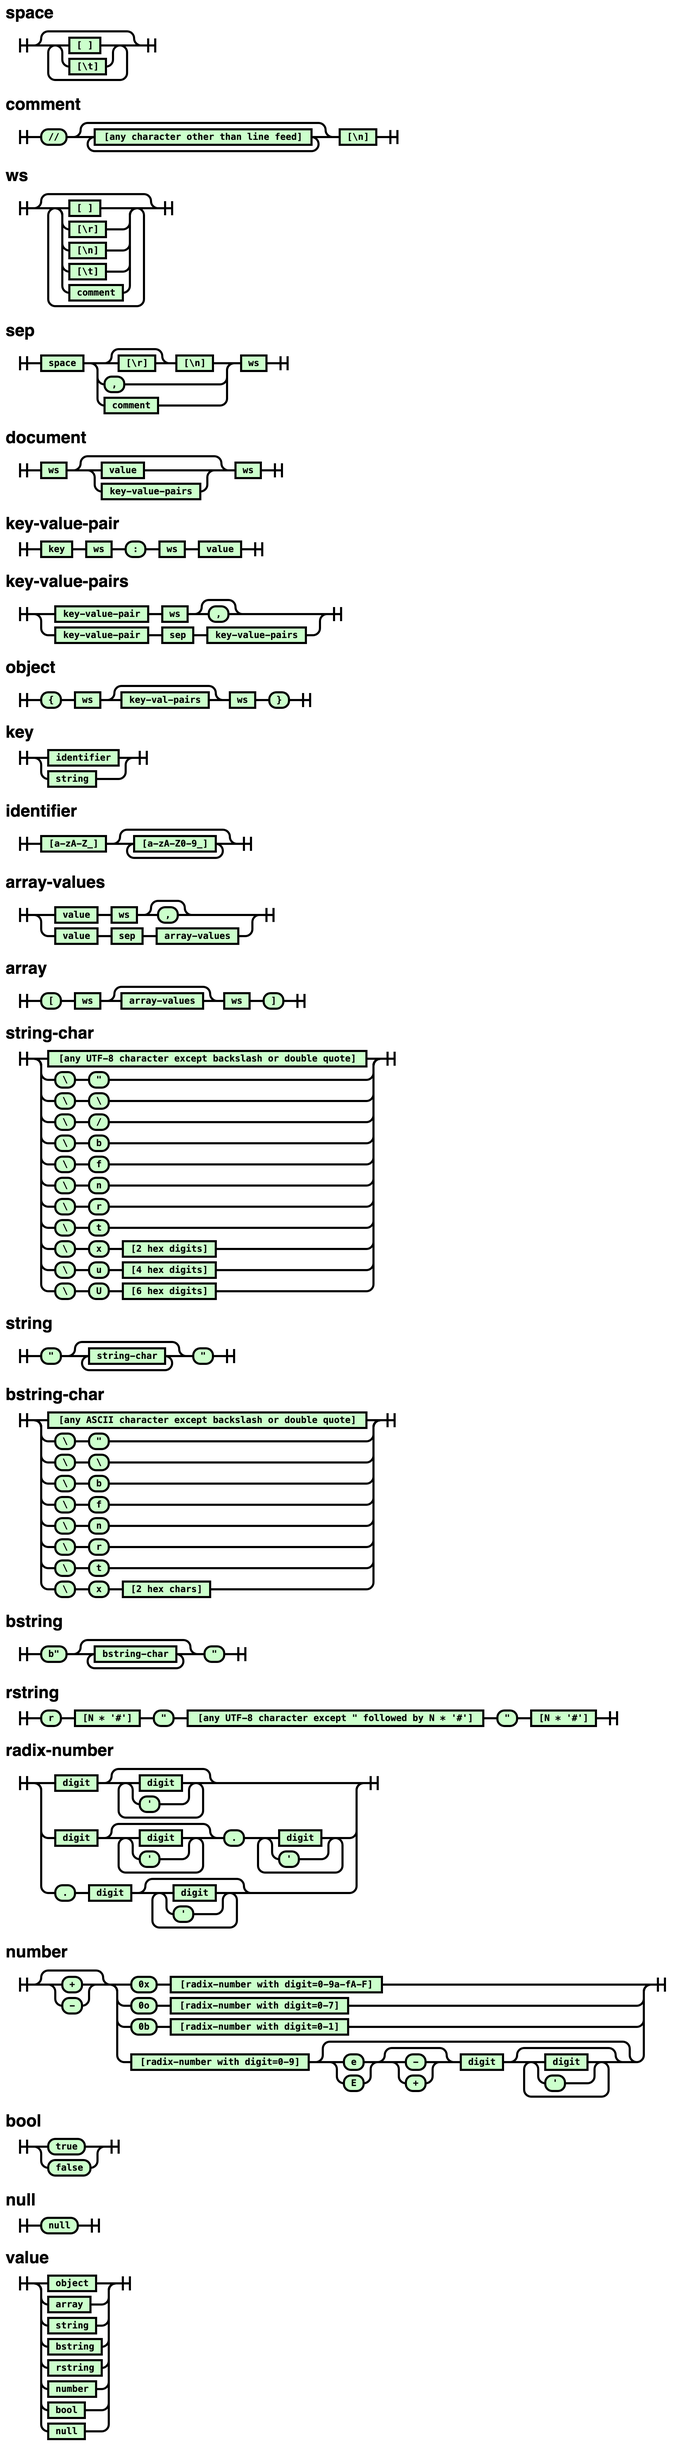
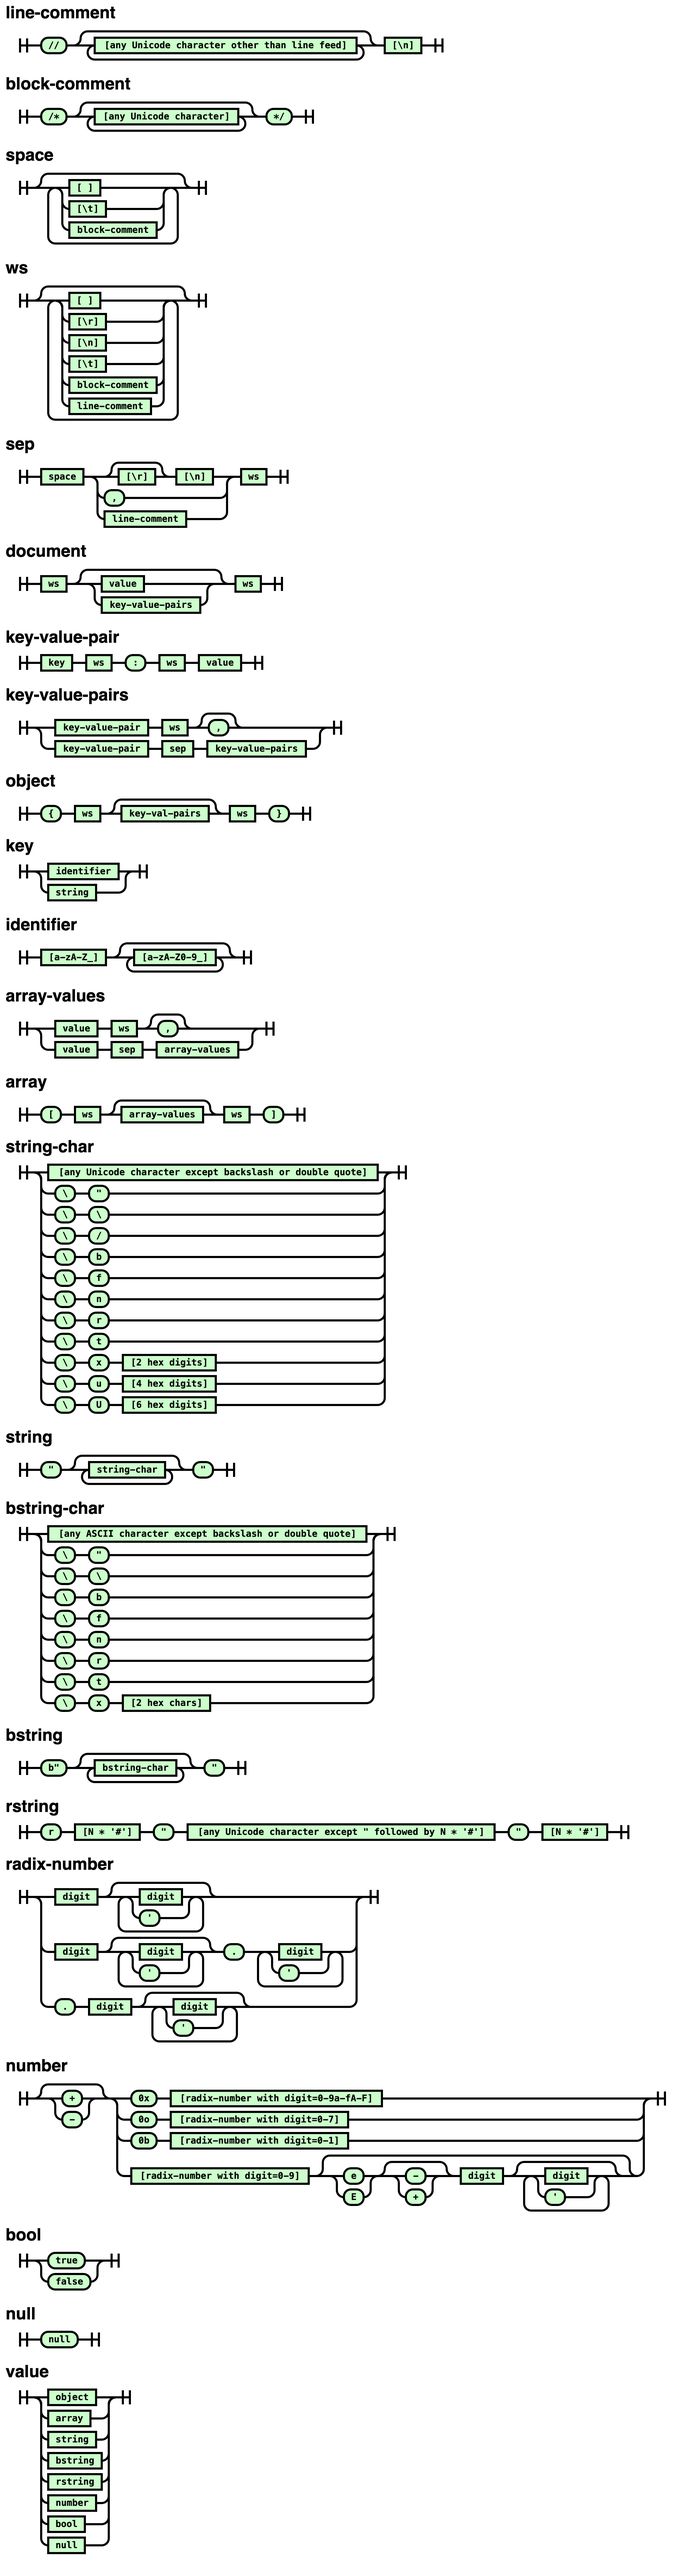
add block comments

Changed region(s): [[0.0, 0.0, 0.9558, 0.9983], [0.555, 0.0, 0.6166, 0.0312]]

diff --git a/js/mason.js b/js/mason.js
@@ -103,6 +103,26 @@ class Reader {
 }
 
 /**
+ * Skip a block comment.
+ * @param {Reader} r
+ */
+function skipBlockComment(r) {
+	r.skipCh('/');
+	r.skipCh('*');
+	while (true) {
+		let ch = r.get();
+		if (ch == null) {
+			r.err("Unexpected EOF");
+		}
+
+		if (ch == '*' && r.peek() == '/') {
+			r.consume();
+			break;
+		}
+	}
+}
+
+/**
  * Skip whitespace and comments.
  * @param {Reader} r
  */
@@ -126,6 +146,11 @@ function skipWhitespace(r) {
 			continue;
 		}
 
+		if (ch == '/' && r.peek2() == '*') {
+			skipBlockComment(r);
+			continue;
+		}
+
 		break;
 	}
 }
@@ -139,6 +164,11 @@ function skipSpace(r) {
 		let ch = r.peek();
 		if (ch == ' ' || ch == '\t') {
 			r.consume();
+			continue;
+		}
+
+		if (ch == '/' && r.peek2() == '*') {
+			skipBlockComment(r);
 			continue;
 		}
 
